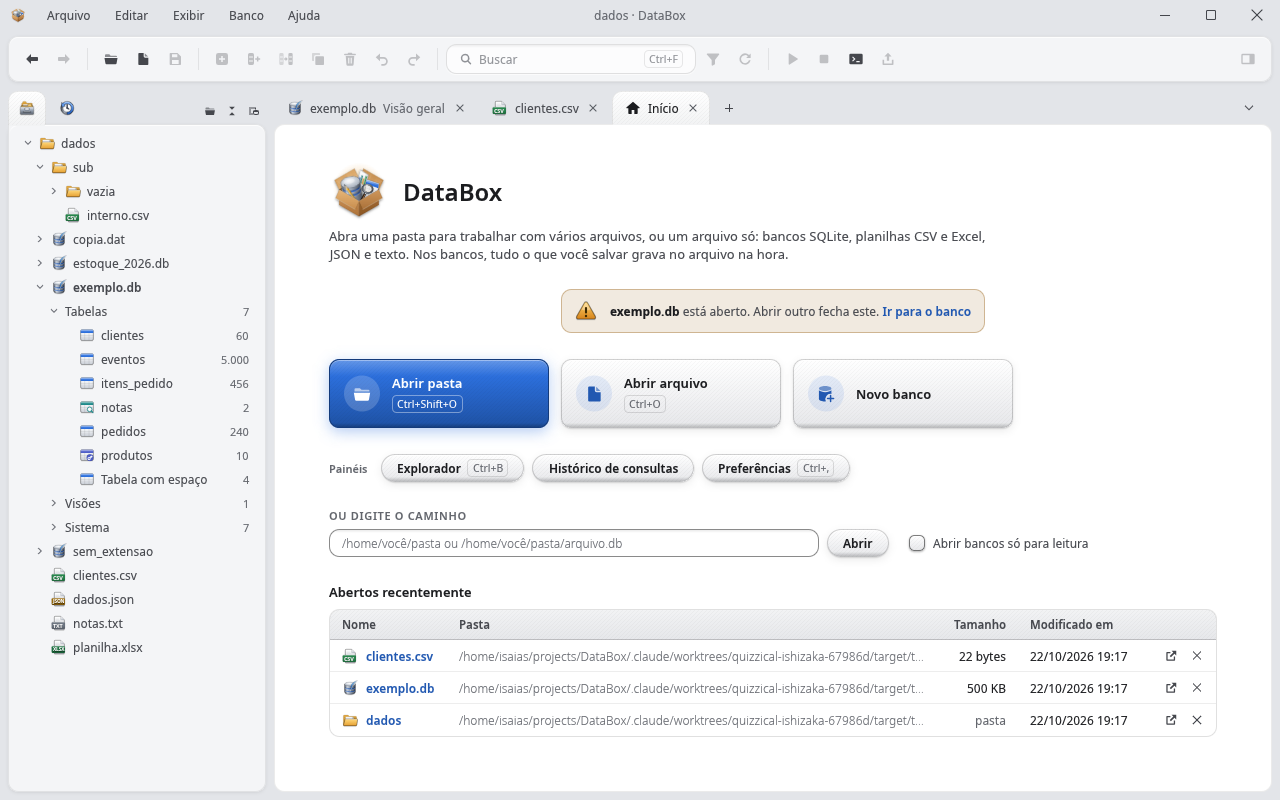
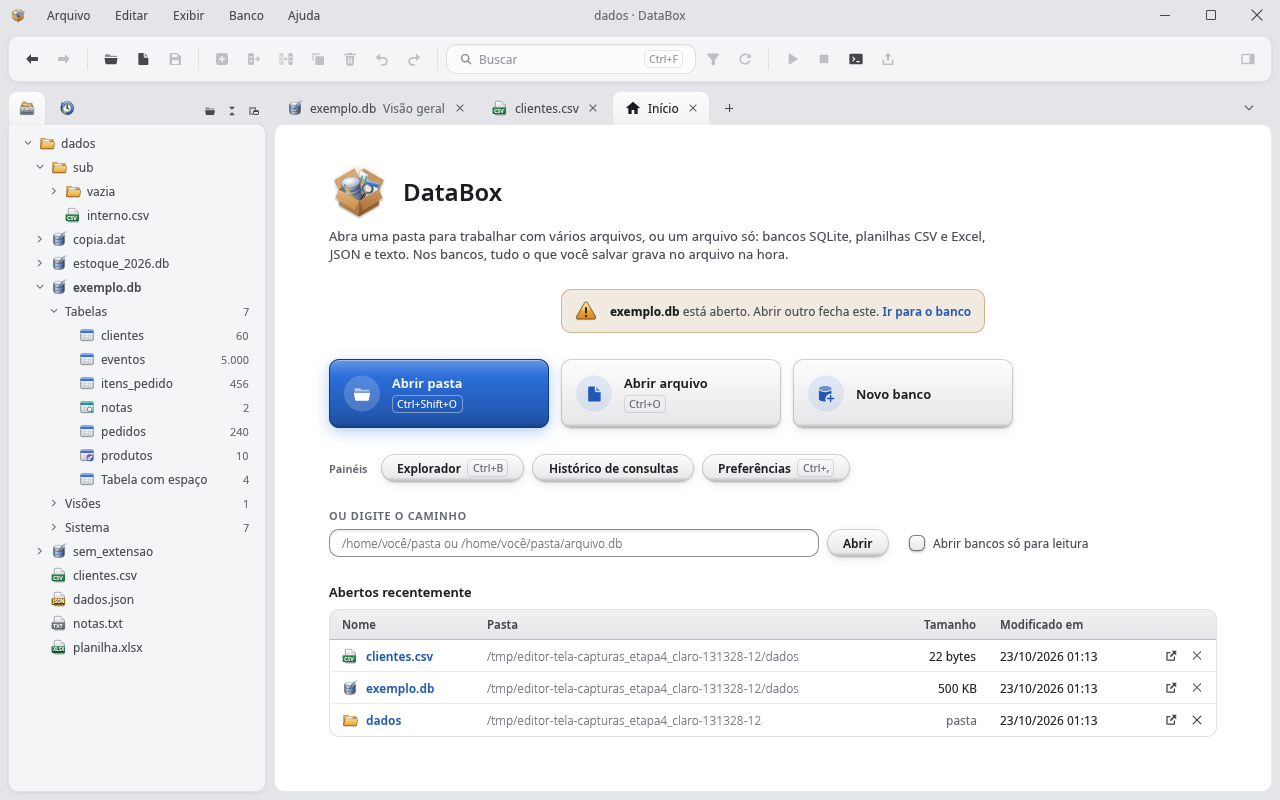
feat(interface): caminhos cortados guardam o nome e a pasta-mãe
U6 da revisão de UI de 22/10/2026. O corte de caminho perdia o meio
("/h…s/config.json") e, quando nem "…/nome" cabia, cortava o nome no
fim ("vendas_2025.c…").

- encurtar_caminho corta do começo, com o nome e as pastas mais perto
  dele inteiras, quantas couberem ("…/dados/vendas_2025.csv").
- encurtar_nome (novo): o nome que não cabe sozinho, cortado no meio,
  com a extensão inteira ("vendas_20…25.csv").
- galley_caminho usa os dois; a pasta dos Abertos recentemente no
  Início passa a usá-lo (antes cortava no fim).

As imagens do README do JSON, do CSV filtrado e do Início saem de novo
dos testes de tela.

Changed region(s): [[0.375, 0.75, 0.875, 0.9062]]

diff --git a/crates/interface/src/pecas/texto.rs b/crates/interface/src/pecas/texto.rs
@@ -73,28 +73,48 @@ pub fn galley_cortado(ui: &Ui, texto: &str, fonte: FontId, cor: Color32, largura
     ui.fonts_mut(|f| f.layout_job(job))
 }
 
-/// O caminho que cabe (`cabe` mede o texto): inteiro, se couber; senão, com o nome do arquivo inteiro e a pasta
-/// cortada no meio com "…" ("C:\dados\…\2026\vendas.db", item 17 da revisão). `None` quando nem "…\nome" cabe, ou
-/// quando não há pasta.
+/// O caminho que cabe (`cabe` mede o texto), U6 da revisão de UI de 22/10/2026: inteiro, se couber; senão, cortado
+/// do começo, com o nome do arquivo e as pastas mais perto dele inteiras ("…/dados/vendas_2025.csv",
+/// "…\2026\vendas.db"), quantas couberem. `None` quando nem "…/nome" cabe, ou quando não há pasta; aí o
+/// [`encurtar_nome`] corta o nome. Até a 0.2.3, a reticência ia no meio da pasta ("/h…s/config.json").
 pub fn encurtar_caminho(caminho: &str, cabe: impl Fn(&str) -> bool) -> Option<String> {
     if cabe(caminho) {
         return Some(caminho.to_owned());
     }
-    let corte = caminho.rfind(['\\', '/'])?;
-    let (pasta, nome) = (&caminho[..corte], &caminho[corte..]);
-    let letras: Vec<char> = pasta.chars().collect();
+    // o separador do caminho (o último que aparece, para o caminho que mistura os dois)
+    let sep = caminho.rfind(['\\', '/']).and_then(|i| caminho[i..].chars().next())?;
+    let partes: Vec<&str> = caminho.split(['\\', '/']).filter(|p| !p.is_empty()).collect();
+    // da maior cauda que ainda deixa algo de fora (a inteira já não coube) até só o nome
+    (1..partes.len())
+        .rev()
+        .map(|k| format!("…{sep}{}", partes[partes.len() - k..].join(&sep.to_string())))
+        .find(|s| cabe(s))
+}
+
+/// O nome que cabe, cortado no meio e com a extensão inteira ("vendas_20…25.csv"); sem extensão, também no meio.
+/// `None` quando nem "…" com a extensão cabe.
+pub fn encurtar_nome(nome: &str, cabe: impl Fn(&str) -> bool) -> Option<String> {
+    if cabe(nome) {
+        return Some(nome.to_owned());
+    }
+    // a extensão: depois do último ponto, se não for o primeiro caractere e for curta
+    let (base, ext) = match nome.rfind('.') {
+        Some(i) if i > 0 && nome.len() - i <= 8 => (&nome[..i], &nome[i..]),
+        _ => (nome, ""),
+    };
+    let letras: Vec<char> = base.chars().collect();
     let montar = |k: usize| -> String {
         let (inicio, fim) = (k.div_ceil(2), k / 2);
         let mut s: String = letras[..inicio].iter().collect();
         s.push('…');
         s.extend(&letras[letras.len() - fim..]);
-        s.push_str(nome);
+        s.push_str(ext);
         s
     };
     if !cabe(&montar(0)) {
         return None;
     }
-    // o maior número de letras da pasta que ainda cabe (a medida cresce com as letras)
+    // o maior número de letras do nome que ainda cabe (a medida cresce com as letras)
     let (mut cabe_k, mut nao_cabe) = (0, letras.len());
     while nao_cabe - cabe_k > 1 {
         let meio = (cabe_k + nao_cabe) / 2;
@@ -107,16 +127,18 @@ pub fn encurtar_caminho(caminho: &str, cabe: impl Fn(&str) -> bool) -> Option<St
     Some(montar(cabe_k))
 }
 
-/// Uma linha com o caminho que cabe em `largura` ([`encurtar_caminho`]: a reticência no meio da pasta e o nome do
-/// arquivo inteiro); se nem o nome couber, ele é cortado no fim.
+/// Uma linha com o caminho que cabe em `largura` ([`encurtar_caminho`]: cortado do começo, com o nome e as pastas
+/// mais perto dele inteiras); se nem "…/nome" couber, o nome sozinho cortado no meio, com a extensão
+/// ([`encurtar_nome`]); se nem isso, cortado no fim.
 pub fn galley_caminho(ui: &Ui, caminho: &str, fonte: FontId, cor: Color32, largura: f32) -> Arc<Galley> {
     let cabe = |s: &str| galley(ui, s, fonte.clone(), cor).size().x <= largura + 0.5;
-    match encurtar_caminho(caminho, cabe) {
-        Some(texto) => galley(ui, &texto, fonte, cor),
-        None => {
-            let nome = caminho.rsplit(['\\', '/']).next().unwrap_or(caminho);
-            galley_cortado(ui, nome, fonte, cor, largura)
-        }
+    if let Some(texto) = encurtar_caminho(caminho, cabe) {
+        return galley(ui, &texto, fonte.clone(), cor);
+    }
+    let nome = caminho.rsplit(['\\', '/']).find(|p| !p.is_empty()).unwrap_or(caminho);
+    match encurtar_nome(nome, cabe) {
+        Some(texto) => galley(ui, &texto, fonte.clone(), cor),
+        None => galley_cortado(ui, nome, fonte.clone(), cor, largura),
     }
 }
 

diff --git a/crates/interface/tests/pecas.rs b/crates/interface/tests/pecas.rs
@@ -3657,17 +3657,25 @@ fn etiqueta_mais_tem_a_lista_na_dica() {
 }
 
 #[test]
-fn caminho_corta_no_meio_e_guarda_o_nome_do_arquivo() {
-    use interface::pecas::texto::encurtar_caminho;
+fn caminho_corta_do_comeco_e_guarda_o_nome_e_a_pasta_mae() {
+    use interface::pecas::texto::{encurtar_caminho, encurtar_nome};
     let caminho = "C:\\Users\\ana\\dados\\arquivo\\2026\\vendas.db";
     let cabe = |n: usize| move |s: &str| s.chars().count() <= n;
     assert_eq!(encurtar_caminho(caminho, cabe(200)).as_deref(), Some(caminho), "cabe inteiro");
-    let curto = encurtar_caminho(caminho, cabe(24)).expect("cabe com a reticência");
-    assert!(curto.ends_with("\\vendas.db") && curto.contains('…') && curto.starts_with("C:\\"), "{curto}");
-    assert_eq!(curto.chars().count(), 24, "o maior que cabe: {curto}");
+    // as pastas mais perto do nome, inteiras, quantas couberem (U6 da revisão de UI de 22/10/2026)
+    assert_eq!(encurtar_caminho(caminho, cabe(24)).as_deref(), Some("…\\arquivo\\2026\\vendas.db"));
+    assert_eq!(encurtar_caminho(caminho, cabe(16)).as_deref(), Some("…\\2026\\vendas.db"));
     assert_eq!(encurtar_caminho(caminho, cabe(11)).as_deref(), Some("…\\vendas.db"));
+    assert_eq!(encurtar_caminho("/home/ana/dados/vendas.csv", cabe(18)).as_deref(), Some("…/dados/vendas.csv"));
     assert_eq!(encurtar_caminho(caminho, cabe(5)), None, "nem o nome cabe");
     assert_eq!(encurtar_caminho("vendas.db", cabe(3)), None, "sem pasta");
+    // o nome que não cabe: cortado no meio, com a extensão inteira
+    assert_eq!(encurtar_nome("vendas_2025.csv", cabe(200)).as_deref(), Some("vendas_2025.csv"));
+    let nome = encurtar_nome("vendas_2025.csv", cabe(10)).expect("cabe cortado");
+    assert!(nome.ends_with(".csv") && nome.contains('…') && nome.starts_with("ven"), "{nome}");
+    assert_eq!(nome.chars().count(), 10, "o maior que cabe: {nome}");
+    assert_eq!(encurtar_nome("vendas_2025.csv", cabe(4)), None, "nem ….csv cabe");
+    assert_eq!(encurtar_nome("LEIAME", cabe(4)).as_deref(), Some("LE…E"), "sem extensão, no meio");
 }
 
 #[test]

diff --git a/crates/editor/src/visao_geral.rs b/crates/editor/src/visao_geral.rs
@@ -2,7 +2,7 @@
 //! (`Main.dc.html`):
 //!
 //! - **faixa**: o cilindro de 20, o nome em 600/13, a pílula "só leitura" (com o motivo na dica) e o caminho em
-//!   `--t3` semilight, com a reticência no meio quando não cabe;
+//!   `--t3` semilight, cortado do começo quando não cabe (`galley_caminho`);
 //! - **conteúdo** (gap de 18): os contadores na dock (`interface::pecas::dock`, no singular com um: "1 Visão") e a
 //!   lista de Tabelas (o título 13/600 e a `.lista-t` na moldura `--b2`), filtrada pela busca da barra ("Buscar
 //!   tabelas", sem acento nem caixa);
@@ -659,8 +659,8 @@ fn com_recuo(ui: &mut Ui, [cima, lados, baixo]: [f32; 3], conteudo: impl FnOnce(
     ui.allocate_space(vec2(ui.available_width(), altura));
 }
 
-/// O Caminho das Propriedades numa linha, com a reticência no meio quando não cabe (o `dd.caminho`: `.ini` cortado,
-/// `.fim` inteiro; o caminho inteiro na dica e para o leitor de tela), e o `.ib.pq` Copiar caminho. Devolve se ele
+/// O Caminho das Propriedades numa linha, cortado do começo quando não cabe, com o nome e a pasta-mãe inteiros (o
+/// `galley_caminho`; o caminho inteiro na dica e para o leitor de tela), e o `.ib.pq` Copiar caminho. Devolve se ele
 /// foi clicado. A ficha do arquivo de dados usa a mesma.
 pub(crate) fn linha_do_caminho(ui: &mut Ui, caminho: &str) -> bool {
     let e = &paleta(ui).estudio;
@@ -681,7 +681,7 @@ pub(crate) fn linha_do_caminho(ui: &mut Ui, caminho: &str) -> bool {
     ui_botao.add(Botao::icone(Icone::CopiarCaminho).pequeno().dica("Copiar caminho")).clicked()
 }
 
-/// A faixa: o cilindro, o nome, a pílula "só leitura" e o caminho com a reticência no meio.
+/// A faixa: o cilindro, o nome, a pílula "só leitura" e o caminho cortado do começo.
 fn faixa_do_banco(ui: &mut Ui, b: &BancoInfo, caminho: &str) {
     let e = &paleta(ui).estudio;
     let (r, _) = ui.allocate_exact_size(vec2(LADO_BANCO_FAIXA, LADO_BANCO_FAIXA), Sense::hover());

diff --git a/crates/editor/src/inicio.rs b/crates/editor/src/inicio.rs
@@ -29,7 +29,7 @@ use interface::pecas::rotulos::{TipoPill, pill};
 use interface::pecas::tabela::PADDING_TABELA;
 use interface::pecas::tabela::{ColunaTabela, LARGURA_MIN_ESTICA, LarguraColuna, Tabela, moldura_lista};
 use interface::pecas::texto::{
-    ALTURA_TIT, Trecho, galley, galley_cortado, galley_quebrado, h4, mostrar_paragrafo, texto, titulo_lista,
+    ALTURA_TIT, Trecho, galley, galley_caminho, galley_quebrado, h4, mostrar_paragrafo, texto, titulo_lista,
 };
 use interface::pecas::toast::toast_erro;
 use interface::pintura;
@@ -218,14 +218,15 @@ fn nome_do_recente(ui: &mut Ui, icone: Icone, nome: &str, existe: bool) -> Respo
     resp
 }
 
-/// O `td.mono` da pasta dos recentes: a pasta numa linha (12px / 350 em `--t3`), encurtada com "…", e a dica com o
-/// caminho completo, encurtada ou não.
+/// O `td.mono` da pasta dos recentes: a pasta numa linha (12px / 350 em `--t3`), encurtada do começo, com as pastas
+/// mais perto do arquivo inteiras ("…/dados/2026", U6 da revisão de UI de 22/10/2026), e a dica com o caminho
+/// completo, encurtada ou não.
 fn pasta_curta(ui: &mut Ui, pasta: &str, caminho: &str, cortar: bool) -> Response {
     let cor = paleta(ui).estudio.t3;
     let fonte = fontes::fonte(TAMANHO_CELULA, Peso::Leve);
     // a coluna automática mede o conteúdo: a pasta vai inteira (ela só é automática quando todas cabem)
     let g = if cortar {
-        galley_cortado(ui, pasta, fonte, cor, ui.available_width())
+        galley_caminho(ui, pasta, fonte, cor, ui.available_width())
     } else {
         galley(ui, pasta, fonte, cor)
     };

diff --git a/crates/interface/src/lib.rs b/crates/interface/src/lib.rs
@@ -238,8 +238,8 @@
 //!     fundo delas; `altura_max`, `apagado`, `cores`; selecionável e copiável).
 //!   - [`pecas::zona_risco::ZonaRisco`] (recolhida por padrão, no vermelho `--perigo`; `hint`, `no_card_tabela`).
 //!   - [`pecas::texto`]: `h2` (20/600), `h3` (14/600), `h4` / `eyebrow` / `rotulo_caps` (o `.tit`: 11/600 em caixa
-//!     alta, `--t3`), `hint`, `texto`, `galley_caminho` / `encurtar_caminho` (a reticência no meio da pasta, o
-//!     nome do arquivo inteiro), `texto_cortado` (uma linha com "…" e a dica do texto inteiro: o
+//!     alta, `--t3`), `hint`, `texto`, `galley_caminho` / `encurtar_caminho` / `encurtar_nome` (cortado do
+//!     começo, com o nome e a pasta-mãe inteiros; o nome que não cabe, no meio, com a extensão), `texto_cortado` (uma linha com "…" e a dica do texto inteiro: o
 //!     `td.caminho-curto`), `paragrafo`, `forte`, `link` e `nome_abre` (o `.link`: `--acct` 600), `codigo` (a fonte
 //!     da interface em 350 sobre `--h`), `texto_rico(ui, &[Trecho::{Normal, Forte, Codigo, Fraco, Quebra, Link,
 //!     Ajuda}], …) -> RespostaTexto` (`{resposta, link: Option<índice do trecho>}`; selecionável),

diff --git a/crates/editor/src/tela_arquivo.rs b/crates/editor/src/tela_arquivo.rs
@@ -30,8 +30,8 @@
 //! Enquanto os editores de CSV, JSON e texto (etapa 5) e o do Excel (etapa 6) não existem, a aba diz o que o
 //! arquivo é e o abre no programa padrão do Windows. Sem prancheta própria: o sistema visual de sempre.
 //!
-//! - **Faixa**: a folha de 20 do tipo (CSV, XLSX, JSON, TXT), o nome em 600/13 e o caminho em `--t3` com a
-//!   reticência no meio.
+//! - **Faixa**: a folha de 20 do tipo (CSV, XLSX, JSON, TXT), o nome em 600/13 e o caminho em `--t3`, cortado do
+//!   começo quando não cabe (`galley_caminho`).
 //! - **Conteúdo** (a página): o aviso informativo de até 560 pt, centrado ("O editor de CSV ainda não está pronto.
 //!   Enquanto isso, o arquivo abre no programa padrão do Windows.") e, embaixo, centrados, **Abrir no programa
 //!   padrão** (primário) e **Mostrar na pasta**. O arquivo que sumiu: o erro do serviço ("O arquivo não existe (ou foi

diff --git a/crates/editor/src/lib.rs b/crates/editor/src/lib.rs
@@ -252,7 +252,7 @@
 //!   cabe), medida a partir das larguras das outras colunas no quadro anterior: as ações ficam dentro do card a
 //!   960px, com o Explorador ao lado.
 //! - **Visão geral** (prancheta 1, `visao_geral.rs`): desenha do `Estado` (o BancoInfo e os objetos que a casca já
-//!   mantém; o Atualizar pede os dois de novo). Na faixa, o cilindro, o nome, o caminho com a reticência no meio e a
+//!   mantém; o Atualizar pede os dois de novo). Na faixa, o cilindro, o nome, o caminho cortado do começo e a
 //!   pill "só leitura"; no conteúdo, os contadores na dock (`pecas::dock`: Tabelas, Visões, Índices, Gatilhos,
 //!   Tamanho e Linhas, com os ícones `-grande` de 48pt na prateleira, no singular com 1, "Linhas (contadas)" com a
 //!   dica "Tabelas grandes não são contadas ao abrir; a soma é das que foram contadas.") e a lista Tabelas (Nome com

diff --git a/crates/estado/src/documento.rs b/crates/estado/src/documento.rs
@@ -563,8 +563,8 @@ fn iso_utc(quando: SystemTime) -> Option<String> {
     Some(format!("{ano:04}-{mes:02}-{dia:02}T{h:02}:{m:02}:{s:02}Z"))
 }
 
-/// O Caminho da ficha numa linha, com a reticência no meio quando não cabe (o `dd.caminho`: `.ini` cortado, `.fim`
-/// inteiro; o caminho inteiro na dica e para o leitor de tela), e o `.ib.pq` Copiar caminho. Devolve se ele foi
+/// O Caminho da ficha numa linha, cortado do começo quando não cabe, com o nome e a pasta-mãe inteiros (o
+/// `galley_caminho`; o caminho inteiro na dica e para o leitor de tela), e o `.ib.pq` Copiar caminho. Devolve se ele foi
 /// clicado.
 fn linha_do_caminho(ui: &mut Ui, caminho: &str) -> bool {
     let e = &interface::tema::paleta(ui).estudio;

diff --git a/CHANGELOG.md b/CHANGELOG.md
@@ -5,6 +5,14 @@ e as versões seguem o [Versionamento Semântico](https://semver.org/lang/pt-BR/
 
 ## [Não lançado]
 
+### Alterado
+
+- **Caminhos cortados guardam o nome e a pasta-mãe** (revisão de UI de 22/10/2026, U6): quando não cabem, o Caminho
+  das Propriedades, da ficha e das faixas, e a pasta dos Abertos recentemente no Início, perdem o começo, não o meio:
+  "…/dados/vendas_2025.csv" no lugar de "/h…s/vendas_2025.csv", com as pastas mais perto do arquivo inteiras. O nome
+  que não cabe sozinho é cortado no meio, com a extensão inteira ("vendas_20…25.csv"), e não mais no fim
+  ("vendas_2025.c…"). O caminho inteiro continua na dica.
+
 ## [0.2.3] - 2026-10-22
 
 ### Adicionado
